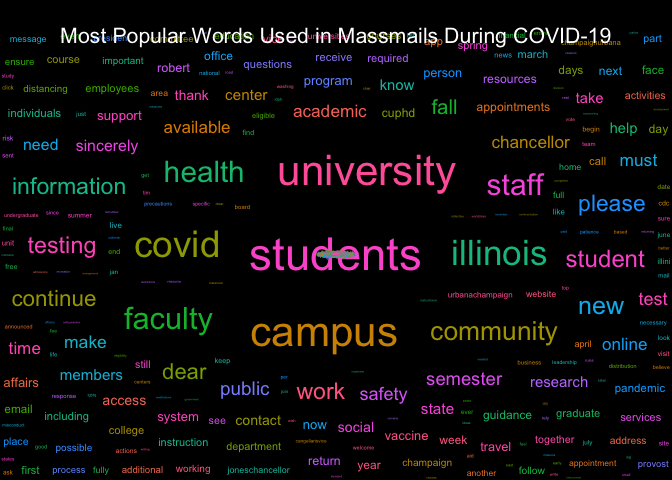
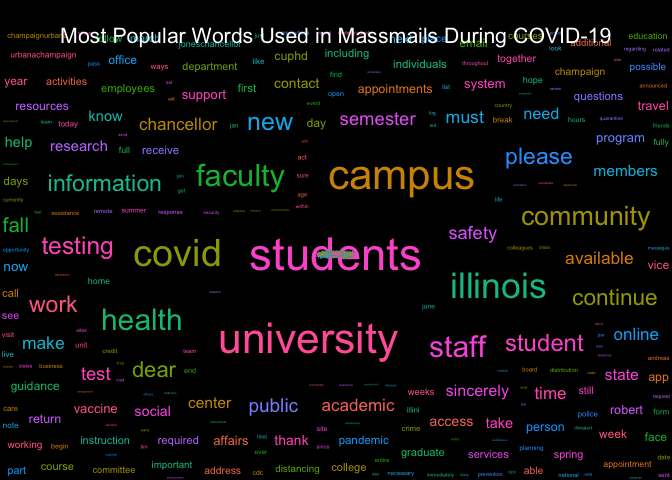
Re-build README.Rmd and Graphs

Changed region(s): [[0.0, 0.0625, 1.0, 1.0], [0.4688, 0.5, 0.5312, 0.5625], [0.625, 0.625, 0.6562, 0.6562]]

diff --git a/README.md b/README.md
@@ -17,7 +17,7 @@ The archive may be viewed here:
 
 <https://massmail.illinois.edu/massmailArchive>
 
-Data has **1362** observations and **7** variables:
+Data has **1366** observations and **7** variables:
 
   - `datetime`: Date and time when the email was sent in the form of
     `YYYY-MM-DD HMS` with either CDT or CST.
@@ -210,16 +210,16 @@ head(most_popular_words, 10) %>%
 
 | word        | freq |
 | :---------- | ---: |
-| students    |  978 |
-| university  |  960 |
-| campus      |  856 |
-| covid       |  619 |
-| illinois    |  607 |
-| faculty     |  539 |
-| community   |  521 |
-| health      |  481 |
-| staff       |  430 |
-| information |  418 |
+| students    |  990 |
+| university  |  982 |
+| campus      |  866 |
+| covid       |  645 |
+| illinois    |  625 |
+| faculty     |  545 |
+| community   |  539 |
+| health      |  493 |
+| staff       |  436 |
+| information |  422 |
 
 #### Wordcloud
 
